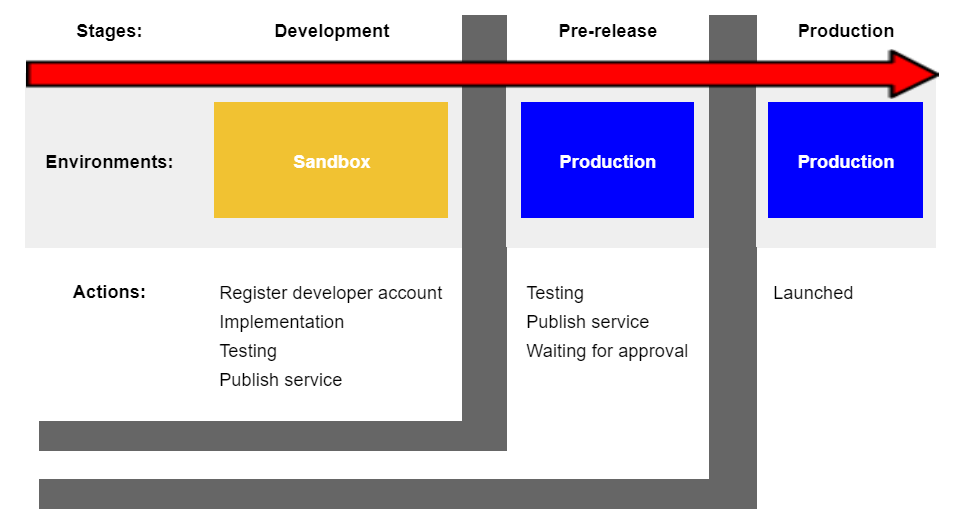
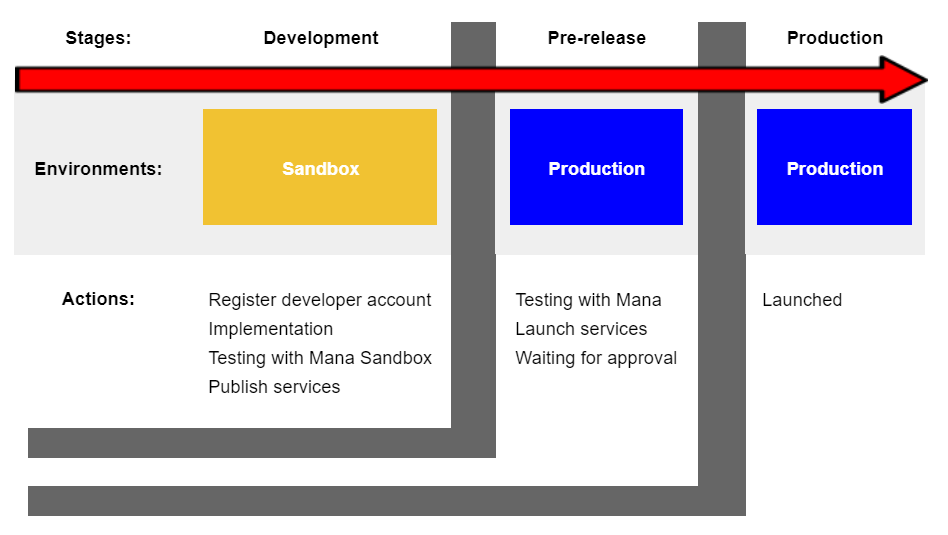
edit content environment / lifecycle and sand2prod

diff --git a/docs/Introduction/DevelopmentCycle.md b/docs/Introduction/DevelopmentCycle.md
@@ -7,11 +7,11 @@
 เมื่อนักพัฒนาทำการพัฒนาระบบใดๆก็ตามที่มีการเชื่อมต่อกับ APIs ของ mana กระบวนการทั้งหมดที่เกิดขึ้นนี้จะอยู่ภายใต้ Sandbox environment ซึ่งในระหว่างนี้หากมีการทดสอบระบบใน Application นักพัฒนาจำเป็นต้องใช้ [Mana sandbox application](../Quickstarts/test_in_sandbox.md) ควบคู่ไปกับการทดสอบของฝั่งนักพัฒนา หลังจากทดสอบระบบเรียบร้อยแล้วจึงทำการเชื่อมต่อกับ APIs เพื่อเตรียมเผยแพร่ออกสู่สาธารณะ
 
 ### ช่วงระยะเตรียมปล่อยออกสู่สาธารณะ (Pre-release) 
-เมื่อผ่านระยะพัฒนามาเรียบร้อยแล้วก่อนการนำระบบที่พัฒนาออกสู่ตลาดจะมีการนำระบบมาพักไว้ Stage ที่เรียกว่า Pre-release ซึ่งเป็น Stage ที่มีข้อมูลและสภาวะแวดล้อมทุกอย่างเสมือนจริง เพียงแต่ยังไม่ได้เผยแพร่ออกสู่ภายนอก
+เมื่อผ่านระยะพัฒนามาเรียบร้อยแล้วก่อนการนำระบบที่พัฒนาออกสู่ตลาดจะมีการนำระบบมาพักไว้ในช่วงที่เรียกว่า Pre-release ซึ่งเป็นช่วงที่มีการทำงานกับข้อมูลจริงทั้งหมดเพียงแต่ยังไม่ได้เผยแพร่ออกสู่สาธารณะ
 
-ดังนั้นหากนักพัฒนาต้องการจะทดสอบการใช้งานใน Stage นี้ก็สามารถทำได้ ซึ่งร้านค้าที่ถูกสร้างเพื่อทดสอบระบบนั้นขณะที่ใช้ Service ของนักพัฒนาจะถูกเรียกเก็บค่าใช้จ่ายเป็นเงินจริงตามที่ได้เขียนไว้ในระบบ ซึ่งรวมถึงการเก็บค่าบริการการตามสัญญาที่ได้ทำไว้กับทาง mana และเมื่อจบการทดสอบกระบวนการทำงานทั้งหมดที่ Stage นี้เรียบร้อยแล้วเงินที่ถูกจ่ายเข้ามาในระบบจะถูกคืนให้กับ Software company และร้านค้าที่ถูกสร้างขึ้นมาทั้งหมดในขั้นตอนนี้จะถูกทำลายทิ้ง
+ดังนั้นหากนักพัฒนาต้องการจะทดสอบการใช้งานในระยะนี้ก็สามารถทำได้ ซึ่งร้านค้าที่ถูกสร้างขึ้นเพื่อทดสอบระบบขณะนั้นจะใช้ Service ของนักพัฒนาโดยจะถูกเรียกเก็บค่าใช้จ่ายเป็นเงินจริงตามที่ได้เขียนไว้ในระบบ ซึ่งรวมถึงการเก็บค่าบริการการตามสัญญาที่ได้ทำไว้กับทาง mana และเมื่อจบการทดสอบกระบวนการทำงานของระยะนี้ เงินที่ถูกจ่ายเข้ามาในระบบจะถูกคืนให้กับ Software company และร้านค้าที่ถูกสร้างขึ้นมาเพื่อทดสอบในขั้นตอนนี้จะถูกทำลายทิ้ง
 
 ซึ่งหลังจากที่นักพัฒนาทดสอบระบบเรียบร้อยและต้องการนำระบบเผยแพร่ออกสู่สาธารณะ จะต้องมีการแจ้งเข้ามาเพื่อให้ทาง mana ทำการตรวจสอบและเตรียมดำเนินการเผยแพร่ออกสู่สาธารณะ
 
 ### ช่วงระยะเผยแพร่ (Production)
-เมื่อมีการเผยแพร่ระบบออกสู่สาธารณะเรียบร้อยแล้ว ผู้ใช้งานภายนอกสามารถเข้าใช้งานความสามารถของนระบบที่ถูกพัฒนาได้อย่างเต็มรูปแบบ
+เป็นช่วงของการนำระบบออกเผยแพร่สู่สาธารณะ เพื่อให้องค์กรหรือคนทั่วไปที่สนใจในระบบนั้นๆสามารถเข้ามาใช้งานได้อย่างเต็มรูปแบบ ซึ่งนั้นรวมถึงการคิดค่าบริการตาม Service ที่มีการใช้งาน

diff --git a/docs/Introduction/Environments.md b/docs/Introduction/Environments.md
@@ -2,10 +2,10 @@
 นักพัฒนาสามารถสร้างและเลือกใช้ Environments ได้หลายรูปแบบขึ้นอยู่กับการออกแบบเพื่อการใช้งานในงานนั้นๆ
 
 ### Sandbox environment
-เป็นสภาวะที่กำลังอยู่ในช่วงพัฒนา หมายถึงสามารถกำหนดค่าหรือข้อมูลต่างๆได้ตามต้องการเพื่อใช้สำหรับการทดสอบการทำงาน การ debug หรือการพัฒนาใดๆได้ตามต้องการ เพื่อให้นักพัฒนาได้เห็นและแก้ไขข้อบกพร่องก่อนเผยแพร่ออกสู่สาธารณะ
+การทำงานที่อยู่ในช่วงของการพัฒนาระบบนั้น จะทำงานภายใต้ Sandbox environment เพื่อให้ทีมนักพัฒนาสามารถทำการทดสอบการทำงานต่างๆได้โดยไม่มีผลกระทบใดๆกับการใช้งานจริง ซึ่งนั่นหมายถึงในช่วงนี้จะยังไม่มีผู้ใช้ภายนอกสามารถเข้าใช้งานใดๆได้ นอกเสียจากทีมนักพัฒนาเอง ซึ่งนักพัฒนาที่มีความสนใจในการพัฒนาระบบร่วมกับ mana สามารถทำ[การสมัครเพื่อเป็นนักพัฒนา](../Quickstarts/GettingStarted.md)ได้ตามขั้นตอนที่ได้กล่าวไว้ก่อนหน้านี้
 
 ### Production environment
-เป็นสภาวะที่นำระบบที่ได้พัฒนาเผยแพร่ออกสู่สาธารณะ ซึ่งหมายถึงมีการทดสอบระบบและข้อมูลเป็นที่เรียบร้อยแล้วว่าไม่พบข้อผิดพลาดใดๆเพราะหากใช้ในเชิงธุรกิจจะส่งผลกระทบกับองค์กร
+เป็นช่วงที่นำระบบที่ผ่านการพัฒนาออกเผยแพร่ออกสู่สาธารณะ ซึ่งในขั้นตอนนี้เองหากองค์กร ร้านค้า หรือบุคคลภายนอกมีความสนใจที่จะใช้งานก็สามารถสมัครเข้าใช้งานได้ โดยการที่จะนำระบบออกสู่สาธารณะได้นั้นทีมนักพัฒนาต้องมี [Tier ที่เป็นระดับ Standard](../Quickstarts/stepUpgrade_tier.md) หรือสูงขึ้นไปเท่านั้นจึงจะสามารถนำระบบออกเผยแพร่สู่สาธารณะได้
 
 ### The default environment
 โดยปกติเมื่อนักพัฒนาได้สมัครเป็นนักพัฒนาใน Mana application เป็นที่เรียบร้อยแล้ว Environment ที่นักพัฒนาจะได้รับและสามารถใช้งานได้ทันทีคือ Sandbox environment ซึ่งสามารถทำการเปลี่ยนแปลง Environment ให้เป็น [Production environments ได้ในภายหลัง](../Quickstarts/stepUpgrade_tier.md)

diff --git a/docs/Howto/setting.md b/docs/Howto/setting.md
@@ -1,0 +1,17 @@
+
+## Setting Key 
+ในระหว่างการพัฒนาระบบ โดยปกติแล้วเมื่อทำการสมัครเป็นนักพัฒนาเรียบร้อยแล้วจะได้รับ Sandbox key เป็นตัวตั้งต้นซึ่งสามารถนำ key ที่ได้รับไปใช้ในระบบของทีมนักพัฒนาไม่ว่าจะเป็นการทำ Configuration หรือการเปลี่ยน ฺBaseURL เพื่อทำการเชื่อมต่อกับ API ของ mana 
+
+ซึ่งหากนักพัฒนามี[การสมัครหรือเปลี่ยนแปลงเป็น tier ที่สูงขึ้น](../Quickstarts/stepUpgrade_tier.md) จะได้รับ Production Key เพิ่มขึ้นเพื่อสามารถเข้าสู่ API ที่หลากหลายขึ้นซึ่งรวมถึงการ Publish service to production โดยการเข้าถึง Key นั้นสามารถทำได้ผ่านการ Login เข้าสู่ DevPortal และดึงข้อมูลผ่าน API ที่กำหนด
+
+![a](../img/Quickstarts/settingKey/settingKey.PNG)
+
+ซึ่งหากเป็นดังภาพด้านบนทางทีมงานของ mana มีข้อแนะนำให้นักพัฒนาทำการสร้าง app ที่แยกการพัฒนากับตัวที่ปล่อยจริงออกจากกันเพื่อให้ง่ายต่อการ
+
+![a](../img/Quickstarts/settingKey/settingKey2.PNG)
+
+
+<!-- ซึ่งนอกจากการเปลี่ยน Key แล้วในการทำงานภายใต้ Environment ที่แตกต่างกันอาจรวมถึงการเปลี่ยน ฺBaseURL จาก Sandbox เป็น Production  -->
+
+<!-- ## การตั้งค่าการใช้งานใน Mana Production
+เมื่อนักพัฒนาต้องการจะแก้ไขหรือเปลี่ยนแปลง Application Server หรือทำ Configuration ของทีมนักพัฒนาให้สามารถใช้งานกับ Mana production ต้องนำ Production-Key ที่ได้มาจาก DevPortal ไปแก้ไขในระบบของนักพัฒนา ซึ่งรวมถึงการเปลี่ยน ฺBaseURL จาก Sandbox เป็น Production  -->

diff --git a/docs/Tutorial/FromSandbox_Production.md b/docs/Tutorial/FromSandbox_Production.md
@@ -1,0 +1,11 @@
+## FromSandbox to Production
+
+ในระหว่างการพัฒนาระบบ ทีมนักพัฒนาสามารถทำการเชื่อม API กับทาง mana ได้โดยการนำ Sandbox key มาใช้งาน ซึ่งหากนักพัฒนาได้ทำการทดสอบเป็นที่เรียบร้อยแล้วและต้องการจะนำระบบออกสู่สาธารณะจะต้องเปลี่ยนมาใช้ Production key ที่ได้มาจาก Devportal พร้อมทั้งทำการเปลี่ยน ฺBaseURL หรือทำ Configuration กับระบบของทีมนักพัฒนาเพื่อใช้งานร่วมกันกับ API ของ mana โดยมีขั้นตอนการดังนี้
+
+1.ทำการ Sign in ใน Devportal ให้เรียบร้อย
+
+![a](../img/Tutorial/sand2prod/getkey1.png)
+
+2.ไปที่เมนู Profile เพื่อนำ Key มาใช้ในการทำงาน 
+
+![a](../img/Tutorial/sand2prod/getkey2.png)

diff --git a/docs/Tutorial/Adhoc.md b/docs/Tutorial/Adhoc.md
@@ -1,7 +1,7 @@
 # Using Adhoc Service
 เป็นบริการการสร้าง QR เพื่อจ่ายเงินให้กับร้านค้าชนิดหนึ่ง ซึ่งผู้ใช้งานไม่จำเป็นต้องกรอกข้อมูลหรือรายเอียดใดๆเพิ่มเติม สามารถใช้งานได้โดยการสแกน QR ผ่านทางแอพพลิเคชั่นใดๆก็ตามเพื่อทำการจ่ายเงินให้กับร้าน โดยหากนักพัฒนาต้องการใช้บริการสามารถทำได้ตามขั้นตอนด้านล่างดังนี้
 
-1.ทำการสร้าง [Software Ba](https://google.com) ใน Mana Application 
+1.ทำการสร้าง [Software BA](https://google.com) ใน Mana Application 
 
 2.สร้าง Service ที่ DevPortal ซึ่งในขั้นตอนนี้จะได้ ServiceId เพื่อเอาไว้ใช้งาน
 

diff --git a/docs/Quickstarts/GettingStarted.md b/docs/Quickstarts/GettingStarted.md
@@ -97,8 +97,8 @@
 3.เมื่อ[สมัครเป็นนักพัฒนา](GettingStarted.md) แล้วสแกนเพื่อ Login เข้าใช้งาน DevPortal ทาง mana ก็จะส่ง consent มาถามว่าต้องการที่จะยอมรับที่จะเข้า Api management 
 
 
-![a](../img/Quickstarts/GettingStarted/slm3.PNG)
+![a](../img/Quickstarts/GettingStarted/slm3.jpg)
 
-4.ถ้าเลือกอนุญาต แล้วยืนยันก็ทำการ Login เข้า Api management 
+4.ถ้าเลือกอนุญาต แล้วยืนยันก็ทำการ Login เข้า Devportal 
 
 ![a](../img/Quickstarts/GettingStarted/slm4.PNG)
